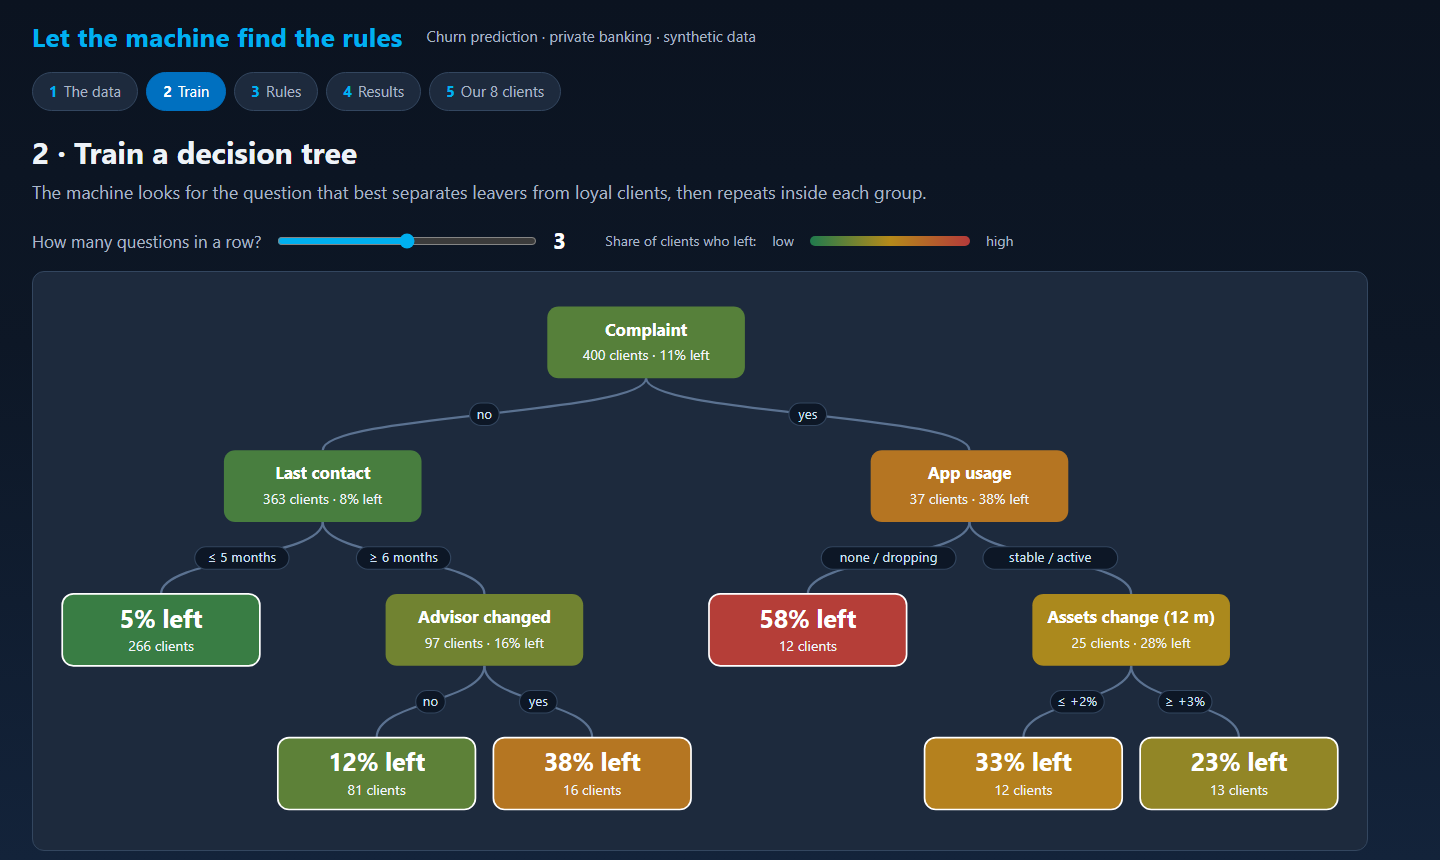
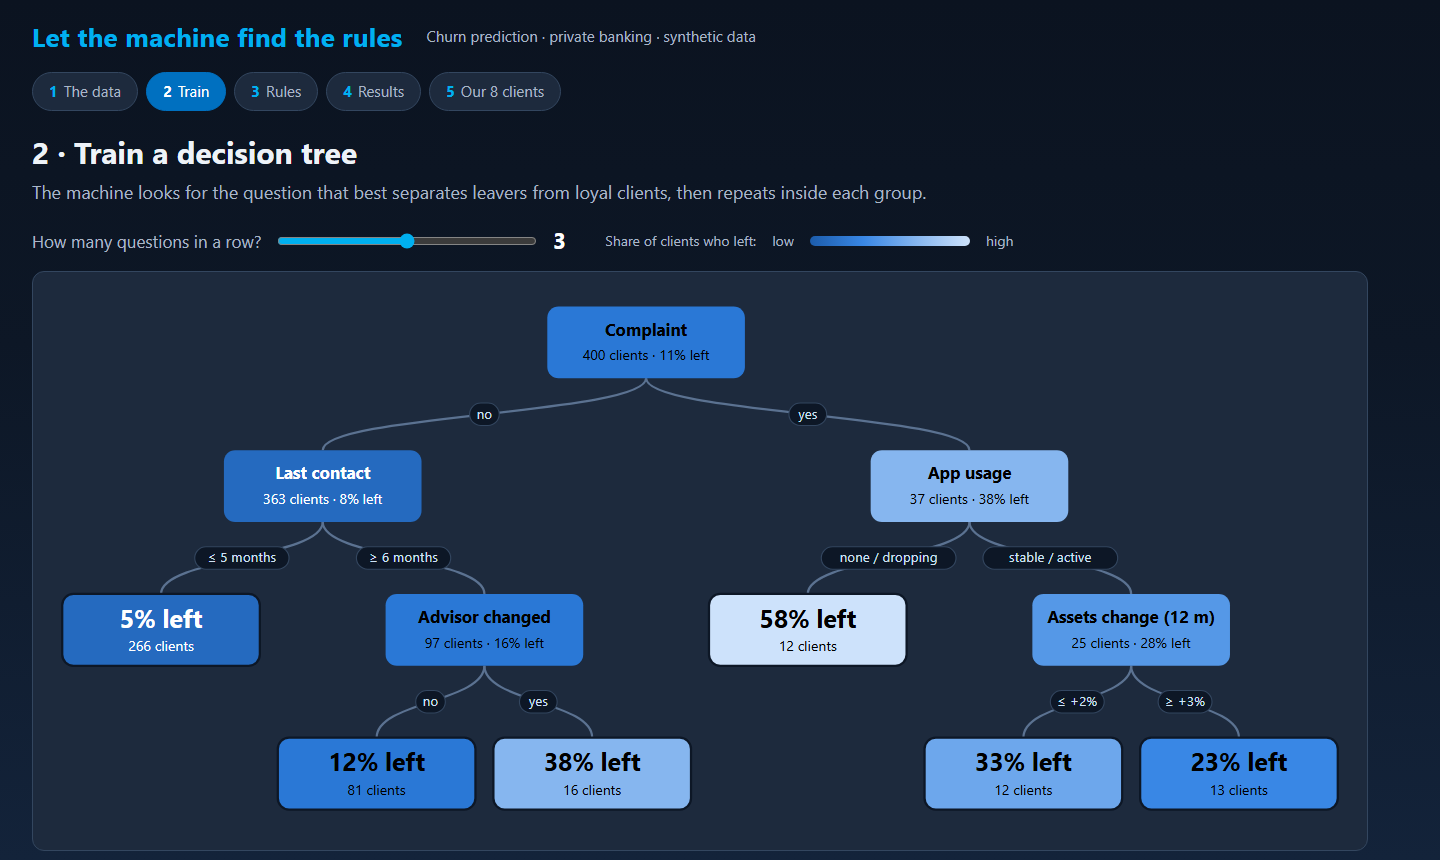
Fix review findings
- Keep the reveal summary when sliders change after the reveal
- Clamp business inputs (empty, negative, >100%) before computing value
- Step hotkeys ignore modifier keys and no longer also scroll the page
- Announce the threshold outcome once, on release, not on every step
- Pure black ink on light ramp steps (#0b0b0b was 4.46:1 on step 2)
- Render rules and clients once per retrain; drop dead code and the
  unused question() export; revoke the CSV object URL
- Refresh the README screenshot with the current palette

diff --git a/src/template.html b/src/template.html
@@ -195,7 +195,7 @@
       </div>
       <div class="side">
         <div class="card"><div class="note">Calls to make</div><div class="big" id="r-calls"></div>
-          <div class="note" id="r-caught" aria-live="polite"></div></div>
+          <div class="note" id="r-caught"></div></div>
         <div class="card alert"><div class="note">Accuracy</div><div class="big" id="r-acc"></div>
           <div class="note" id="r-base"></div></div>
         <div class="card">
@@ -220,6 +220,7 @@
     </div>
   </section>
 </main>
+<div class="sr-only" aria-live="polite" id="sr-status"></div>
 <footer>Synthetic data for training purposes only: no real bank, client or person is represented. Decision tree (CART) computed live in your browser; works offline. · Made by <a href="https://altaira.eu" rel="noopener">Altaïra</a> · <a href="https://github.com/FrtZi/banking-churn-demo" rel="noopener">Source code (MIT)</a></footer>
 
 <script>
@@ -257,9 +258,12 @@
     if (moveFocus) document.querySelector("section.on h2").focus({ preventScroll: false });
   }
   document.addEventListener("keydown", (e) => {
-    if (["INPUT", "TEXTAREA"].includes(document.activeElement.tagName)) return;
-    if (e.key === "ArrowRight" || e.key === "PageDown") go(cur + 1);
-    if (e.key === "ArrowLeft" || e.key === "PageUp") go(cur - 1);
+    if (e.altKey || e.ctrlKey || e.metaKey || e.shiftKey) return;
+    if (["INPUT", "TEXTAREA", "SELECT"].includes(document.activeElement.tagName)) return;
+    const move = { ArrowRight: 1, PageDown: 1, ArrowLeft: -1, PageUp: -1 }[e.key];
+    if (!move) return;
+    e.preventDefault();
+    go(cur + move);
   });
 
   // ---------- step 1: data
@@ -283,6 +287,7 @@
     a.href = URL.createObjectURL(new Blob([csv], { type: "text/csv" }));
     a.download = "churn_demo_clients.csv";
     a.click();
+    setTimeout(() => URL.revokeObjectURL(a.href), 0);
   };
 
   // ---------- step 2: tree
@@ -291,11 +296,12 @@
   const RAMP = ["#1c5cab", "#256abf", "#2a78d6", "#3987e5", "#5598e7", "#6da7ec", "#86b6ef", "#9ec5f4", "#b7d3f6", "#cde2fb"];
   const step = (p) => Math.round(Math.min(1, p / 0.6) * (RAMP.length - 1));
   const color = (p) => RAMP[step(p)];
-  const ink = (p) => (step(p) >= 2 ? "#0b0b0b" : "#ffffff"); // >= 4.5:1 on every step
+  // text on the fill, >= 4.7:1 on every step (pure black is needed on step 2: #0b0b0b gives only 4.46:1)
+  const ink = (p) => (step(p) >= 2 ? "#000000" : "#ffffff");
   function retrain() {
     tree = Core.train(train, +$("depth").value);
     $("depth-o").textContent = $("depth").value;
-    drawTree(); drawRules(); drawResults(); drawClients();
+    drawTree(); drawResults(); // drawResults also redraws the rules and the 8 clients
   }
   function drawTree() {
     const svg = $("tree");
@@ -369,8 +375,8 @@
     $("r-caught").textContent = `${m.tp} of the ${leavers} leavers caught · ${calls ? pct(m.tp / calls) : "–"} of calls are useful`;
     $("r-acc").textContent = pct((m.tp + m.tn) / test.length);
     $("r-base").innerHTML = `A “model” that says <b>nobody leaves</b> scores ${pct((m.tn + m.fp) / test.length)} without catching a single leaver. Accuracy alone is misleading.`;
-    const net = m.tp * ($("v-save").value / 100) * $("v-client").value - calls * $("v-call").value;
-    $("r-net").textContent = `${eur(net)} / yr`;
+    const num = (id, max = Infinity) => Math.min(max, Math.max(0, Number($(id).value) || 0));
+    const net = m.tp * (num("v-save", 100) / 100) * num("v-client") - calls * num("v-call");
     $("r-net").textContent = `${net >= 0 ? "▲" : "▼"} ${eur(net)} / yr`;
     $("r-net").style.color = net >= 0 ? "var(--good)" : "var(--critical)";
     drawRules(); drawClients();
@@ -391,19 +397,22 @@
         <div>${flag ? "→ call this client" : "→ no action"}</div>
         <div class="verdict"><span class="ico-${cls}" aria-hidden="true">${icon}</span> ${txt}</div></div></div>`;
     }).join("");
-    $("g-summary").textContent = "";
-    $("g-summary").dataset.ok = ok;
+    gameCorrect = ok;
+    showReveal();
   }
-  $("reveal").onclick = () => {
-    const box = $("clients");
-    const hidden = box.classList.toggle("hidden-reveal");
-    $("reveal").setAttribute("aria-pressed", String(!hidden));
-    $("reveal").textContent = hidden ? "Reveal what really happened" : "Hide the answers";
-    $("g-summary").textContent = hidden ? "" : `The model got ${$("g-summary").dataset.ok} of 8 right. How did the room do?`;
-  };
+  let revealed = false, gameCorrect = 0;
+  function showReveal() {
+    $("clients").classList.toggle("hidden-reveal", !revealed);
+    $("reveal").setAttribute("aria-pressed", String(revealed));
+    $("reveal").textContent = revealed ? "Hide the answers" : "Reveal what really happened";
+    $("g-summary").textContent = revealed ? `The model got ${gameCorrect} of 8 right. How did the room do?` : "";
+  }
+  $("reveal").onclick = () => { revealed = !revealed; showReveal(); };
 
   $("depth").oninput = retrain;
   $("thr").oninput = drawResults;
+  // announce the outcome once the slider is released, not on every step
+  $("thr").onchange = () => { $("sr-status").textContent = $("r-caught").textContent; };
   for (const id of ["v-client", "v-call", "v-save"]) $(id).oninput = drawResults;
   retrain();
   go((parseInt(location.hash.slice(1), 10) || 1) - 1, false);

diff --git a/src/core.js b/src/core.js
@@ -147,12 +147,6 @@ const Core = (() => {
     const lo = Math.floor(t), hi = Math.floor(t) + 1;
     return yes ? `${name} ≤ ${fmtNum(lo, f)}` : `${name} ≥ ${fmtNum(hi, f)}`;
   }
-  const question = (f, t) => {
-    if (f.type === "bool") return `${f.short || f.label}?`;
-    if (f.type === "ord") return `${f.label}: ${f.levels.slice(0, Math.floor(t) + 1).join(" / ")}?`;
-    return `${f.short || f.label} ≤ ${fmtNum(Math.floor(t), f)}?`;
-  };
-
   // short label on a tree edge: yes = "value <= t" branch
   function edgeLabel(f, t, yes) {
     if (f.type === "bool") return yes ? "no" : "yes";
@@ -193,6 +187,6 @@ const Core = (() => {
     return m;
   }
 
-  return { rng, generate, GAME, FEATURES, train, predict, leaves, question, ruleText, evaluate, edgeLabel, nodeLabel, APP };
+  return { rng, generate, GAME, FEATURES, train, predict, leaves, ruleText, evaluate, edgeLabel, nodeLabel, APP };
 })();
 if (typeof module !== "undefined") module.exports = Core;
